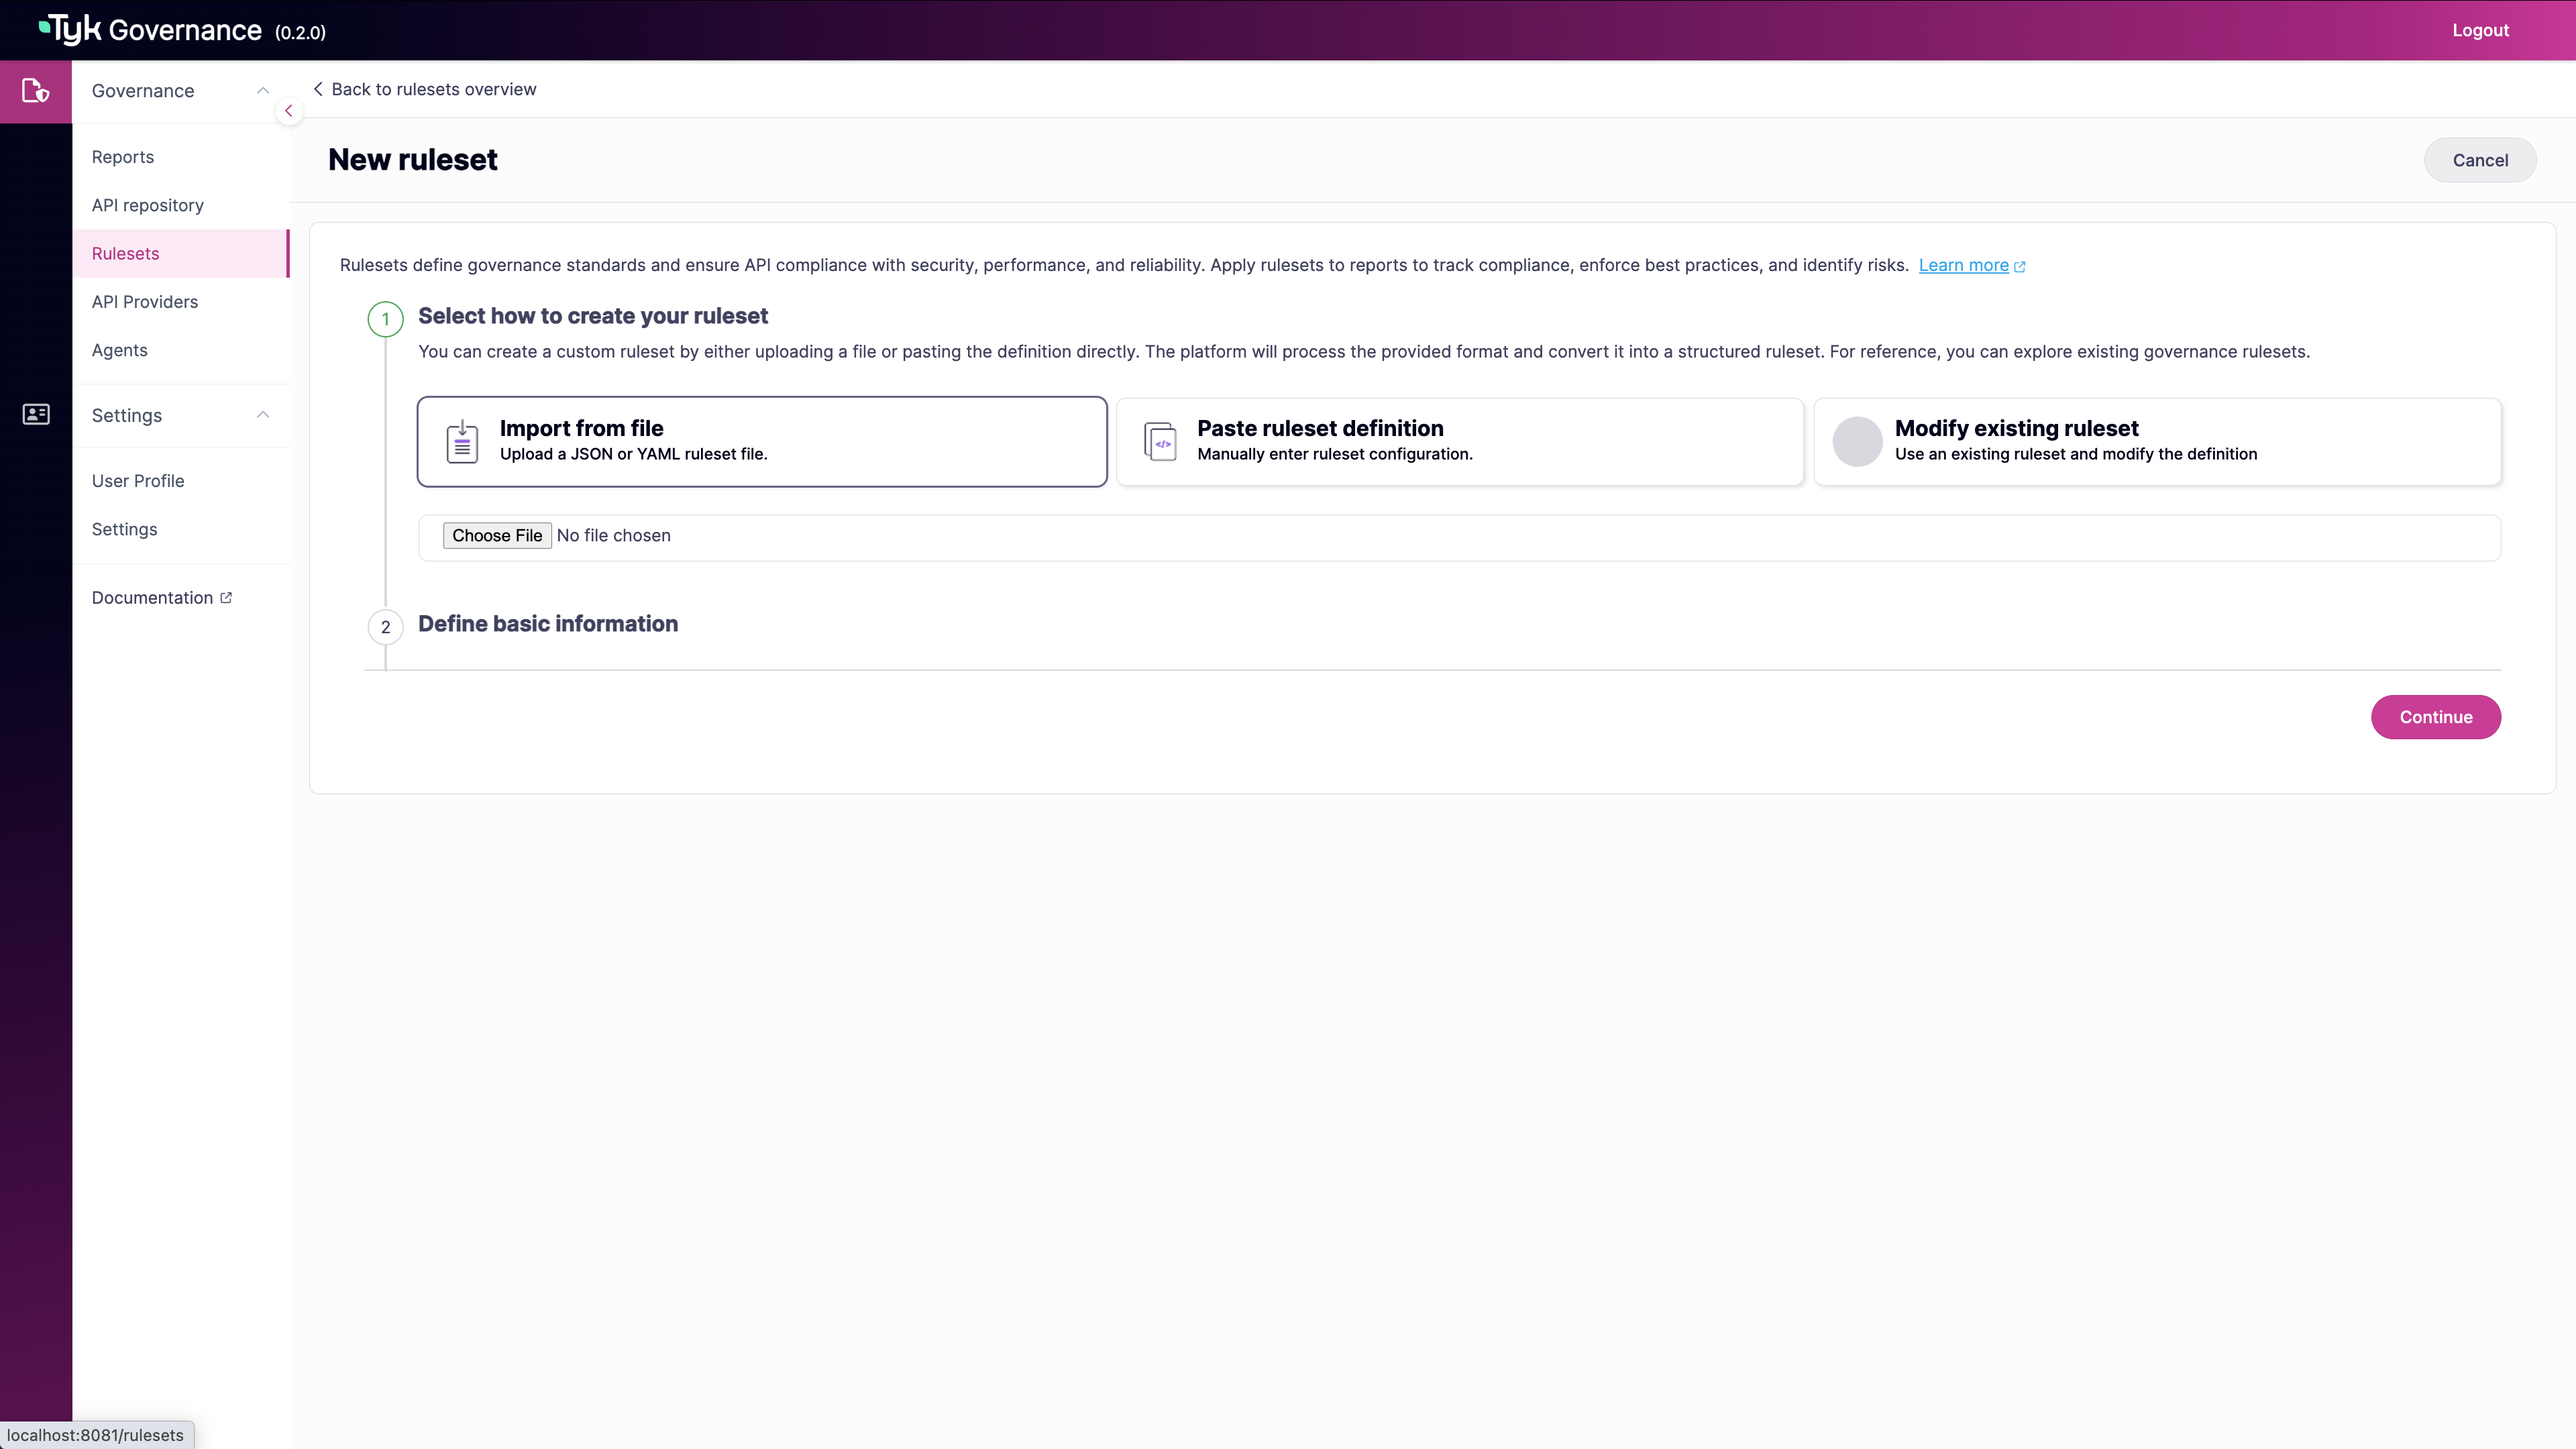
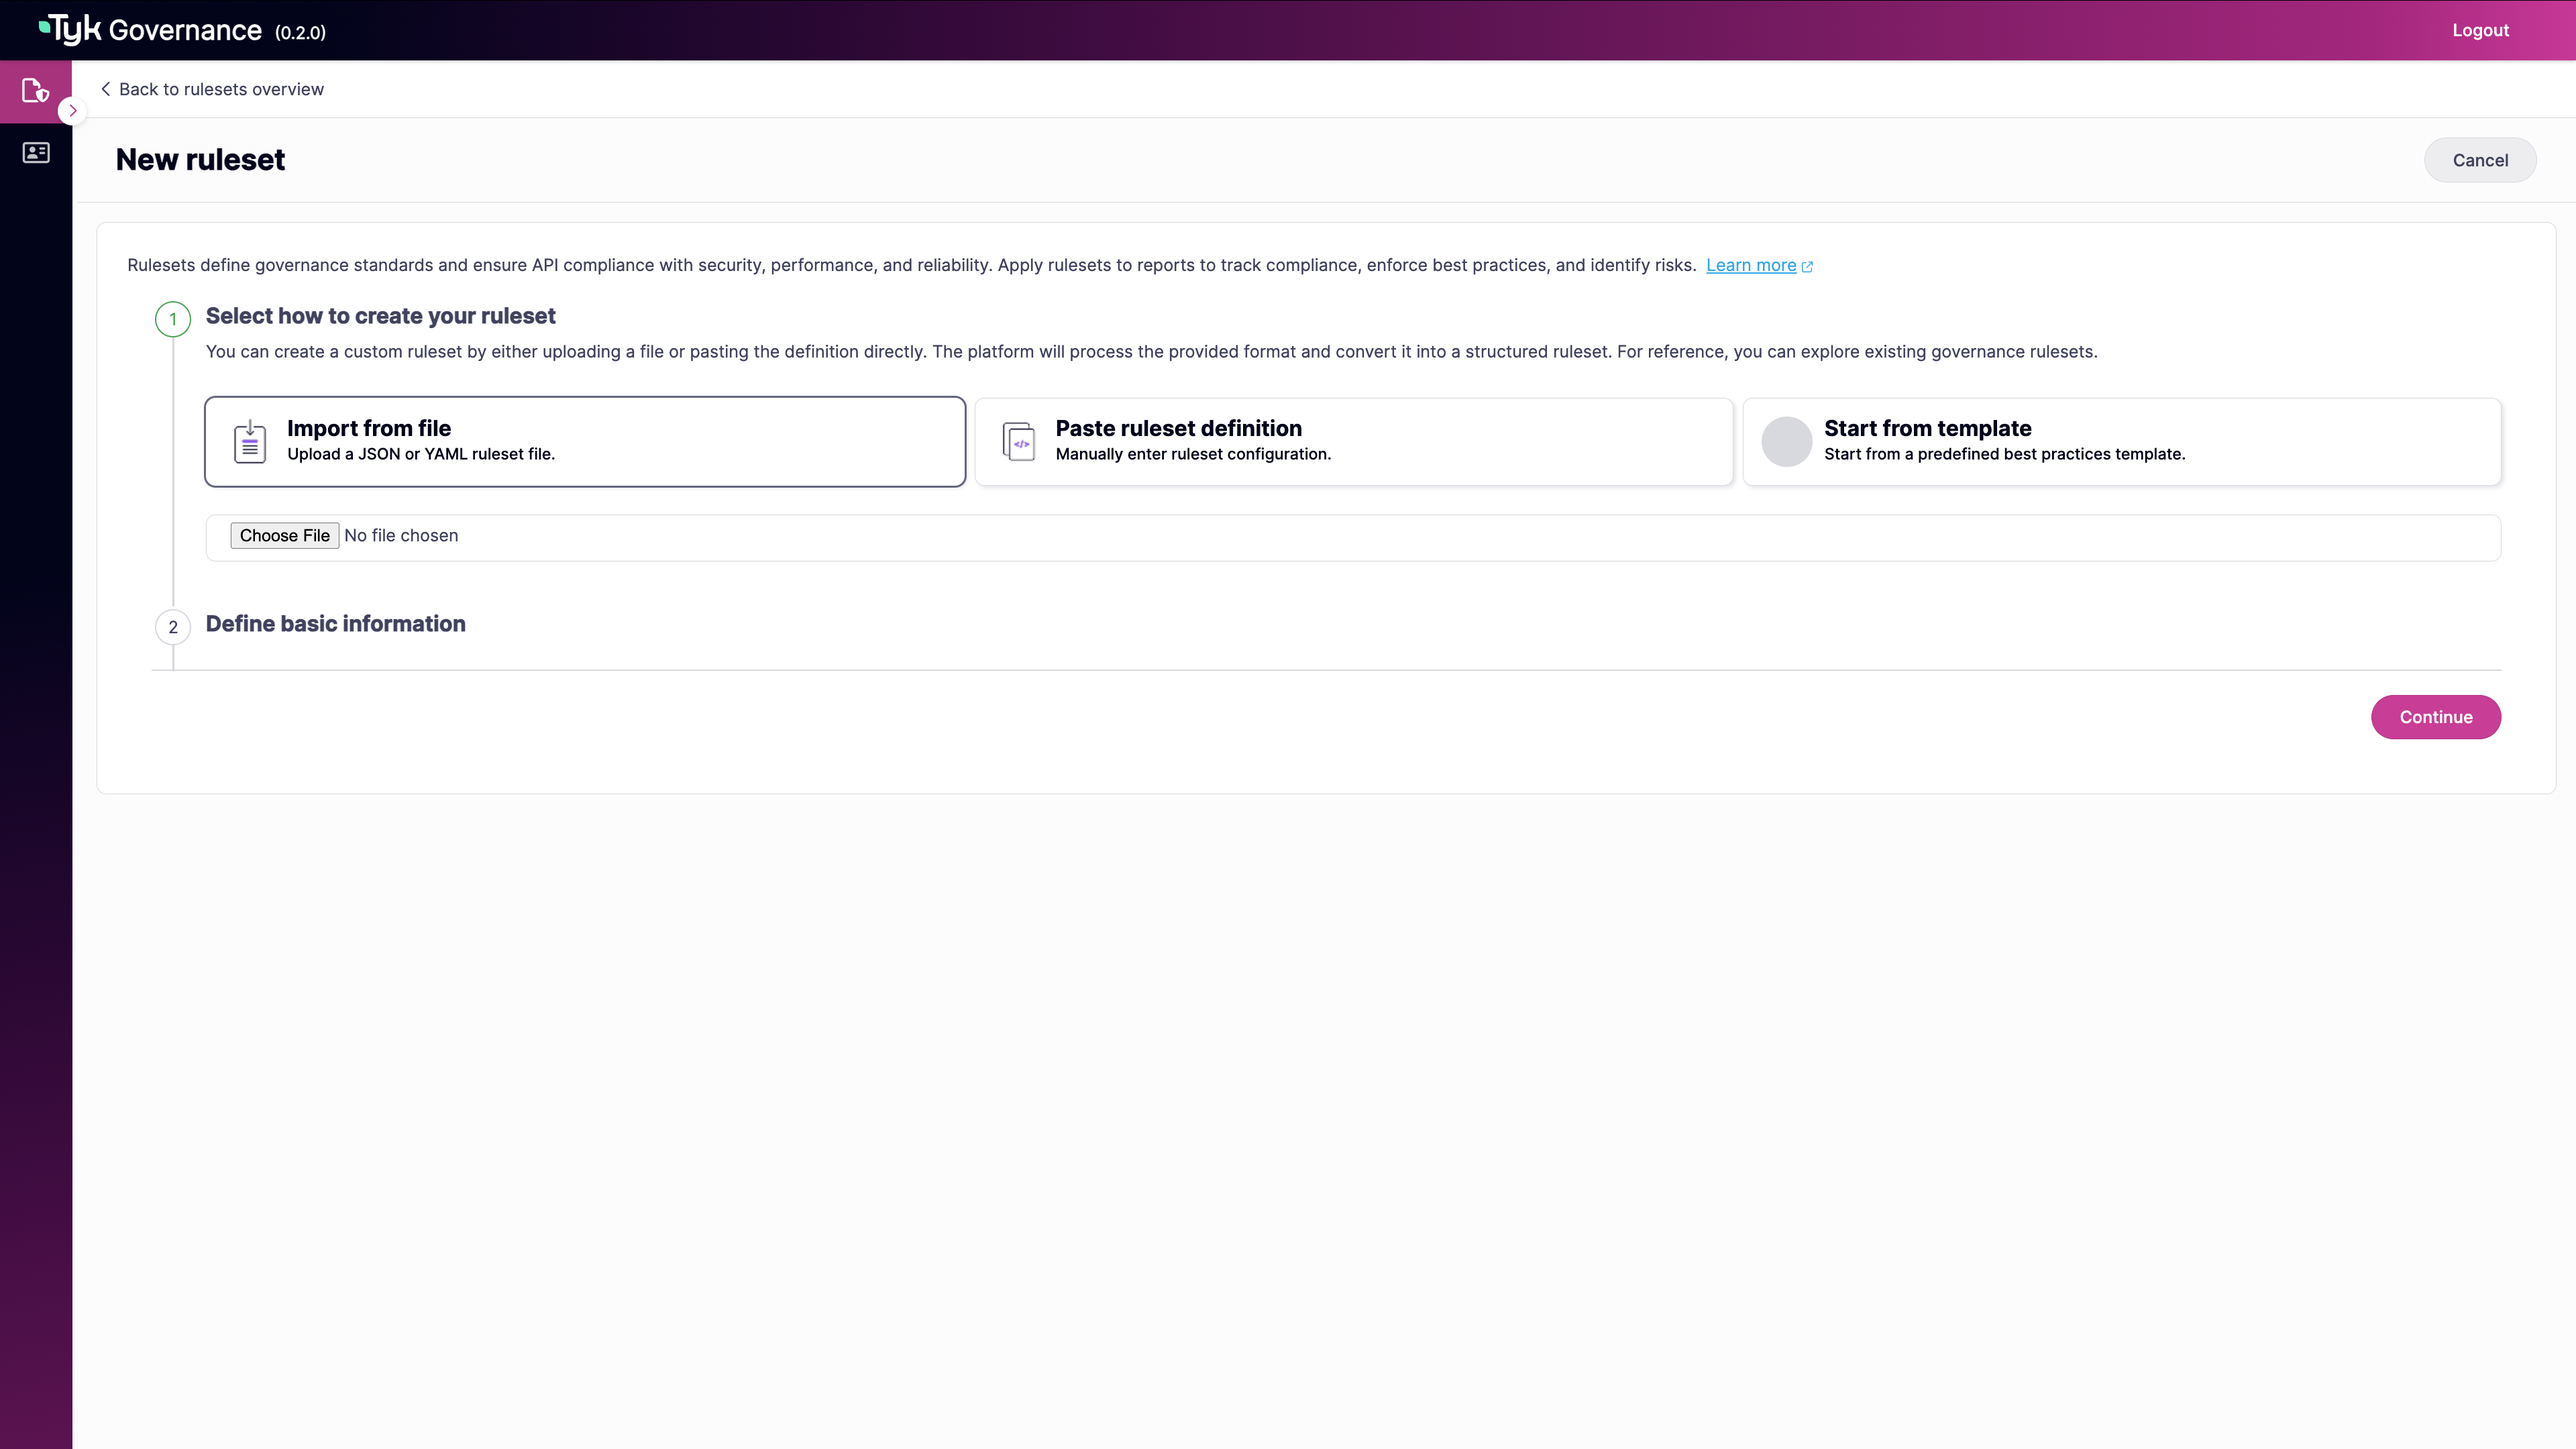
update

diff --git a/tyk-docs/content/tyk-governance/governance-rulesets.md b/tyk-docs/content/tyk-governance/governance-rulesets.md
@@ -43,21 +43,29 @@ In this tutorial, we'll create a simple governance ruleset that can be used to v
 
 2. **Create a New Ruleset**
 
-    Click the "Add Ruleset" button to create a new ruleset.
+    Click the "Create new ruleset" button to create a new ruleset.
 
-     {{< img src="img/governance/ruleset-list.png" >}}
+    {{< img src="img/governance/ruleset-list-2.png" >}}
      
 3. **Choose a Template**
 
-    Select "Start from Template" and choose the "OpenAPI Best Practices" template.
+    Select "Start from Template" and choose the "vacuum-owasp" template.
+
+    {{< img src="img/governance/ruleset-template-1.png" >}}
 
 4. **Customize Your Ruleset**
 
-    Provide a name and description for your ruleset, then review the pre-configured rules. You can enable/disable specific rules or adjust their severity levels.
+    Review the pre-configured rules. You can enable/disable specific rules or adjust their severity levels.
+
+    {{< img src="img/governance/ruleset-template-2.png" >}}
+
+    Then, provide a name and description for your ruleset.
+
+    {{< img src="img/governance/ruleset-template-3.png" >}}
 
 5. **Save Your Ruleset**
 
-    Click "Save" to create your new ruleset.
+    Click **Finish** to create your new ruleset.
 
 6. **View Your Ruleset**
 
@@ -79,7 +87,7 @@ A typical rule in a ruleset includes:
 
 - **Given**: A JSONPath expression that selects parts of the API specification
 - **Then**: Functions to apply to the selected parts
-- **Severity**: The importance level (error, warning, info, hint)
+- **Severity**: The importance level (error, warn, info, hint)
 - **Message**: A description of what the rule checks
 - **HowToFix**: Guidance on resolving any violations
 
@@ -109,7 +117,7 @@ Define rules that enforce naming conventions, URL patterns, and response structu
 ```yaml
 path-case-convention:
   description: Path segments must use kebab-case
-  severity: warning
+  severity: warn
   given: $.paths
   then:
     field: "@key"
@@ -126,7 +134,7 @@ Create rules that check for complete and accurate documentation, including descr
 ```yaml
 operation-description:
   description: All operations must have descriptions
-  severity: warning
+  severity: warn
   given: $.paths.*.*
   then:
     field: description
@@ -206,6 +214,49 @@ Once created, rulesets can be managed through the UI or API:
 - Choose from pre-built templates for common standards
 - Customize the template to meet your specific needs
 
+### Testing Rulesets Against APIs
+
+After creating your ruleset, you'll want to test it against your APIs to ensure it correctly identifies compliance issues. You can test a ruleset through the Governance UI:
+
+1. Navigate to the Ruleset Details Page
+
+    - Go to the **Rulesets** section and select the ruleset you want to test
+
+2. Run an Evaluation
+
+    - In the ruleset details page, locate the "**Test ruleset**" section
+    - Select an API from the dropdown menu
+    - Click the "**Run ruleset**" button
+
+      {{< img src="img/governance/ruleset-test-1.png" >}}
+
+3. Review Results
+
+     - The evaluation results will display any rule violations found in the API
+     - Results are categorized by severity (High, Medium, Low)
+     - Click "View issue info" on any violation to see detailed information including:
+       - The specific rule that was violated
+       - The affected area in the API specification
+       - Guidance on how to fix the issue
+
+     {{< img src="img/governance/ruleset-test-2.png" >}}
+
+     {{< img src="img/governance/ruleset-test-3.png" >}}
+
+## Understanding Remediation Priority
+
+In Tyk Governance, "Remediation Priority" indicates how urgently an API issue should be addressed based on its risk level and potential impact. This priority helps teams focus their efforts on the most critical issues first.
+
+### Severity Mapping
+
+Remediation priority is directly derived from the severity level defined in the rule. When a rule violation is detected during evaluation, its severity level is mapped to a corresponding remediation priority:
+
+| Severity Level | Remediation Priority | Visual Indicator |
+|----------------|----------------------|------------------|
+| error          | High                 | Red pill            |
+| warn           | Medium               | Yellow/orange pill  |
+| info           | Low                  | Green pill          |
+
 ## Use Cases
 
 ### Establishing Tiered Governance Standards
@@ -250,7 +301,7 @@ Use rulesets to gradually implement and evolve governance standards as your orga
 
 1. Start with a basic ruleset focusing on critical security and fundamental design principles
 2. Gradually add more rules as teams become familiar with the standards
-3. Adjust severity levels over time (e.g., start as warnings, later promote to errors)
+3. Adjust severity levels over time (e.g., start as warns, later promote to errors)
 4. Incorporate feedback from development teams to refine rules
 
 **Benefits:**

diff --git a/tyk-docs/content/tyk-governance/installation.md b/tyk-docs/content/tyk-governance/installation.md
@@ -229,45 +229,54 @@ You can also use API to create a token. After receiving your Governance Hub cred
 
 2. **Create an Agent using the API**:
 
-```bash
-# Replace these values with your actual information
-GOVERNANCE_URL="https://your-governance-instance.tyk.io"
-API_KEY="your-access-key"
-AGENT_NAME="My AWS Agent (US)"
+    ```bash
+    # Replace these values with your actual information
+    GOVERNANCE_URL="https://your-governance-instance.tyk.io"
+    API_KEY="your-access-key"
+    AGENT_NAME="My AWS Agent (US)"
 
-# Create agent first
-curl -s -X POST --location "${GOVERNANCE_URL}/api/agents/" \
-  -H "X-API-Key: ${API_KEY}" \
-  -H "Content-Type: application/json" \
-  -d '{
-    "name": "'"${AGENT_NAME}"'"
-  }'
-```
+    # Create agent first
+    curl -s -X POST --location "${GOVERNANCE_URL}/api/agents/" \
+      -H "X-API-Key: ${API_KEY}" \
+      -H "Content-Type: application/json" \
+      -d '{
+        "name": "'"${AGENT_NAME}"'"
+      }'
+    ```
 
-Example response that shows an agent is created in INACTIVE state:
+    Example response that shows an agent is created in INACTIVE state:
 
-```json
-{"id":"a51d9bd0-bafe-4749-8285-e18641b151f2","name":"My AWS agent (US)","last_heartbeat":"0001-01-01T00:00:00Z","status":"INACTIVE","providers":null}
-```
+    ```json
+    {
+      "id": "a51d9bd0-bafe-4749-8285-e18641b151f2",
+      "name": "My AWS agent (US)",
+      "description": "",
+      "last_heartbeat": "0001-01-01T00:00:00Z",
+      "status": "inactive",
+      "providers": null,
+      "token": "",
+      "version": ""
+    }
+    ```
 
-```bash
-# Extract agent ID from response
-AGENT_ID="a51d9bd0-bafe-4749-8285-e18641b151f2"
-```
+    ```bash
+    # Extract agent ID from response
+    AGENT_ID="a51d9bd0-bafe-4749-8285-e18641b151f2"
+    ```
 
 3. **Generate an Agent Token using the API**:
 
-Now you can generate an access token for the agent.
+    Now you can generate an access token for the agent.
 
-```bash
-# API call to create an agent token
-curl -X POST "${GOVERNANCE_URL}/api/auth/token/" \
-  -H "X-API-Key: ${API_KEY}" \
-  -H "Content-Type: application/json" \
-  -d '{
-    "agent_id": "'"${AGENT_ID}"'"
-  }'
-```
+    ```bash
+    # API call to create an agent token
+    curl -X POST "${GOVERNANCE_URL}/api/auth/token/" \
+      -H "X-API-Key: ${API_KEY}" \
+      -H "Content-Type: application/json" \
+      -d '{
+        "agent_id": "'"${AGENT_ID}"'"
+      }'
+    ```
 
     Example response:
 
@@ -370,7 +379,7 @@ healthProbe:
 
 #### Deploy the Agent
 
-  **Docker Deployment:**
+**Docker Deployment:**
 
 ```bash
 # Replace it with your Tyk Governance license key
@@ -385,7 +394,7 @@ docker run -d --name tyk-governance-agent \
   tykio/governance-agent:$VERSION
 ```
 
-  **Kubernetes Deployment:**
+**Kubernetes Deployment:**
 
 1. Create a Kubernetes secret for the configuration:
 
@@ -464,18 +473,18 @@ kubectl apply -f agent-deployment.yaml
 
  2. Look for log messages indicating a successful connection:
 
-```
-Starting license validation... 
-License validated successfully. Valid till: ...
-starting agent
-agent started successfully
-waiting agent to establish health check
-starting health probes HTTP server","addr":":5959
-authenticated and established health stream
-health check established, waiting for sync stream
-agent registered successfully and established sync stream with governance dashboard
-waiting for sync requests from the dashboard
-```
+    ```
+    Starting license validation... 
+    License validated successfully. Valid till: ...
+    starting agent
+    agent started successfully
+    waiting agent to establish health check
+    starting health probes HTTP server","addr":":5959
+    authenticated and established health stream
+    health check established, waiting for sync stream
+    agent registered successfully and established sync stream with governance dashboard
+    waiting for sync requests from the dashboard
+    ```
 
 #### Trigger Initial Sync
 

diff --git a/tyk-docs/content/tyk-governance/core-concepts.md b/tyk-docs/content/tyk-governance/core-concepts.md
@@ -276,6 +276,10 @@ The degree to which an API adheres to defined governance policies and standards.
 
 The structured process of addressing and resolving API governance violations.
 
+### Remediation Priority
+
+Indicates how urgently an API issue should be addressed based on its risk level and potential impact. This priority helps teams focus their efforts on the most critical issues first.
+
 ### Risk Level
 
 A summary metric that reflects API governance compliance across multiple APIs, considering their adherence to selected governance rulesets.
